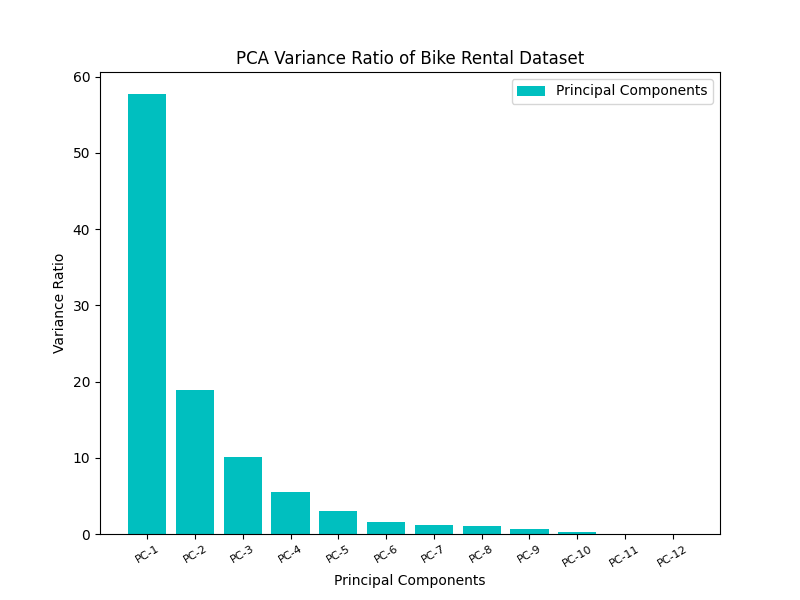
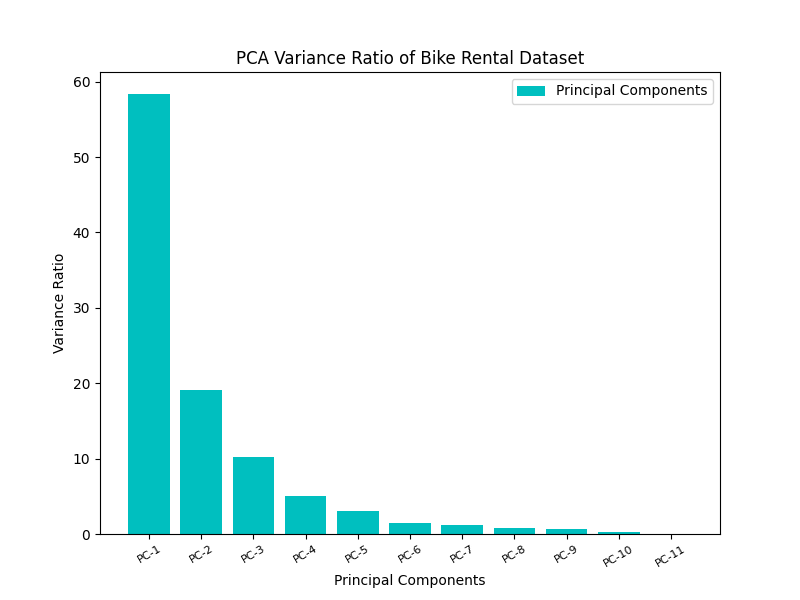
Increased accuracy and fixed PCA
- I added all the other columns (except for count) back into the data frame
- PCA works but it's weird so I'm not going to use it
- Lower half of correlation matrix is broken for some reason

diff --git a/main.py b/main.py
@@ -111,15 +111,13 @@ df['datetime'] = pd.to_datetime(df['datetime'])
 df['hour'] = df['datetime'].dt.hour
 df.drop('datetime', axis=1, inplace=True)
 
+# Also try using casual or registered columns instead of count
+
 # These are the possible targets because they are labeled
 target = np.array((df['season'], df['holiday'], df['workingday'], df['weather']))
 target = np.swapaxes(target, 0, 1)
 target = pd.DataFrame(target, columns=['season', 'holiday', 'workingday', 'weather'])
 df.drop(['season', 'holiday', 'workingday', 'weather'], axis=1, inplace=True)
-
-# Assigning labels for Season and Weather
-#target['season'] = target['season'].map({1: 'spring', 2: 'summer', 3: 'fall', 4: 'winter'})
-#target['weather'] = target['weather'].map({1: 'clear', 2: 'mist', 4: 'light rain', 4: 'heavy rain'})
 
 print(df.head())
 
@@ -138,25 +136,26 @@ palette = sns.color_palette('bright', n_colors=num_colors)
 # ******************************
 
 # Visualize features as a heatmap
-cor_eff=df.corr()
-plt.figure(figsize=(6,6))
-sns.heatmap(cor_eff,linecolor="white",linewidths=1,annot=True)
+cor_eff = df.corr()
+plt.figure(figsize=(9, 9))
+sns.heatmap(cor_eff, linecolor="white", linewidths=1, annot=True)
 plt.savefig("full_corr_matrix")
+plt.show()
 
 # Plot the lower half of the correlation matrix
-fig, ax = plt.subplots(figsize=(6,6))
+fig, ax = plt.subplots(figsize=(9, 9))
+
+# Lower correlation matrix not showing up
 # Compute the correlation matrix
-mask=np.zeros_like(cor_eff)
+mask = np.zeros_like(cor_eff)
 plt.savefig("lower_corr_matrix")
+plt.show()
 
 # mask = 0: display the correlation matrix
 # mask = 1: display the unique lower triangular values
 #mask[np.triu_indices_from(mask)] = 0
-mask[np.triu_indices_from(mask)] = 1
-sns.heatmap(cor_eff,linecolor="white",linewidths=1,mask=mask,ax=ax,annot=True)
-
-# Following a website for this part:
-# https://www.analyticsvidhya.com/blog/2021/06/data-cleaning-using-pandas/
+#mask[np.triu_indices_from(mask)] = 1
+#sns.heatmap(cor_eff, linecolor="white", linewidths=1, mask=mask, ax=ax, annot=True)
 
 # Print total of invalid data per column
 print("\nInvalid Data:")
@@ -170,11 +169,22 @@ print("Sum:", df.duplicated().sum())  # Also zero
 # Let's look at the distribution of the data
 print(df.describe())
 
+# Histogram for distribution of count column
+plt.clf()
+df['count'].plot.hist(bins=10, legend=None)
+plt.title("Distribution of Bike Rental Counts per Hour")
+plt.xlabel("Bikes Rented per Hour")
+plt.savefig("count_histogram")
+plt.show()
+
+
+target['count'] = pd.cut(x=df['count'], bins=[0, 100, 200, 300, 400, 500, 600, 700, 800, 900, 1000], labels=[0, 1, 2, 3, 4, 5, 6, 7, 8, 9])
+print(target['count'].value_counts())
+
 # Normalization
 norm = MinMaxScaler()
 df_final = pd.DataFrame(norm.fit_transform(df))
 df_final.columns = ['temp', 'atemp', 'humidity', 'windspeed', 'casual', 'registered', 'count', 'hour']
-#df_final = pd.concat(objs=(df_final, target), axis=1)
 
 # This is kinda useless now
 '''
@@ -184,8 +194,8 @@ sns.boxplot(data=df_final, x='holiday', y='count', ax=axes[0, 1])
 sns.boxplot(data=df_final, x='season', y='count', ax=axes[1, 0])
 sns.boxplot(data=df_final, x='weather', y='count', ax=axes[1, 1])
 plt.show()
+plt.savefig('normalization.png')
 '''
-# plt.savefig('normalization.png')
 
 # ******************************
 # FEATURE SELECTION
@@ -198,11 +208,17 @@ iqr = q3-q1
 outliers = df_final.index[((df_final['count'] < q1-(1.5 * iqr)) | (df_final['count'] > q3+(1.5 * iqr)))].tolist()
 target = target.drop(index=outliers, axis=0)
 df_final = df_final.drop(index=outliers, axis=0)
+df_final = pd.concat(objs=[df_final, target['season'], target['holiday'], target['workingday'], target['weather']], axis=1)
 
+# Might also need to drop registered and casual
+#df_final.drop(['count', 'casual', 'registered'], axis=1, inplace=True)
+df_final.drop(['count'], axis=1, inplace=True)
+
+# PCA now works but it's weird
 '''
 # Assigning X and Y for PCA
 x_pca = df_final
-y_pca = target['season']
+y_pca = np.array(target['count'])
 
 # PCA
 pca = PCA()
@@ -211,56 +227,52 @@ ev = pca.explained_variance_ratio_
 
 # Explained Variance Plot - PCA
 plt.figure(figsize=(8, 6))
-plt.bar([1, 2, 3, 4, 5, 6, 7, 8, 9, 10, 11, 12], list(ev * 100), label='Principal Components', color='c')
+plt.bar([1, 2, 3, 4, 5, 6, 7, 8, 9, 10, 11], list(ev * 100), label='Principal Components', color='c')
 plt.legend()
 plt.xlabel('Principal Components')
 pc = []
-for i in range(12):
+for i in range(11):
     pc.append('PC-' + str(i + 1))
-plt.xticks([1, 2, 3, 4, 5, 6, 7, 8, 9, 10, 11, 12], pc, fontsize=8, rotation=30)
+plt.xticks([1, 2, 3, 4, 5, 6, 7, 8, 9, 10, 11], pc, fontsize=8, rotation=30)
 plt.ylabel('Variance Ratio')
 plt.title('PCA Variance Ratio of Bike Rental Dataset')
 plt.savefig('PCA_class_variance')
 # plt.show()
 
 # PCA Dimensionality Reduction
-pca = PCA()
+pca = PCA(n_components=2)
 pc = pca.fit_transform(x_pca)
 
 x1 = x_pca.transpose()
-X_pca = np.matmul(pc, x1)
+X_pca = np.matmul(x1, pc)
 
 
 # Reformat reduced data
 X_pca_df = pd.DataFrame(data=pc)
-target_df = pd.DataFrame(data=target['season'])
-X_pca_df.columns = ['PC-1', 'PC-2', 'PC-3', 'PC-4', 'PC-5', 'PC-6', 'PC-7', 'PC-8', 'PC-9', 'PC-10', 'PC-11', 'PC-12']
+#X_pca_df.columns = ['PC-1', 'PC-2', 'PC-3', 'PC-4', 'PC-5', 'PC-6', 'PC-7', 'PC-8', 'PC-9', 'PC-10', 'PC-11']
 
 # 2D PCA Reduction Plot
 fig = plt.figure(figsize=(10, 10))
 ax = fig.add_subplot(1, 1, 1)
 ax.set_xlabel('PC-1', fontsize=15)
 ax.set_ylabel('PC-2', fontsize=15)
-ax.set_title('PCA on Bike Rental Dataset', fontsize=20)
-class_num = [1, 2, 3, 4]
-colors = ['turquoise', 'gold', 'darkorange', 'mediumpurple']
-for target, color in zip(class_num, colors):
-    indicesToKeep = y_pca == target #This doesn't make sense anymore?
-    ax.scatter(X_pca_df.loc[indicesToKeep, 'PC-1'], #UGGGHHH
-               X_pca_df.loc[indicesToKeep, 'PC-2'],
+ax.set_title('PCA on Bike Rental Dataset - Count', fontsize=20)
+class_num = [0, 1, 2, 3, 4, 5, 6, 7, 8, 9]
+colors = ['r', 'b', 'g', 'y', 'orange', 'c', 'k', 'pink', 'brown', 'gray']
+for t, color in zip(class_num, colors):
+    indicesToKeep = y_pca == t
+    indicesToKeep = np.where(indicesToKeep)[0]
+    ax.scatter(X_pca_df.iloc[indicesToKeep, 0],
+               X_pca_df.iloc[indicesToKeep, 1],
                c=color, s=9)
-ax.legend(class_num)
+ax.legend(['0 to 100', '100 to 200', '200 to 300', '300 to 400', '400 to 500', '500 to 600', '600 to 700', '700 to 800','800 to 900', '900 to 1000'])
 ax.grid()
 plt.show()
 '''
 
-# Count over a day for working days vs not
-#sns.lineplot(data=df_final, x='hour', y='count', hue='workingday')
-#plt.show()
-
 # Assigning X and Y for LDA
 x_lda = df_final
-y_lda = target['season']
+y_lda = target['count']
 
 # LDA
 lda = LinearDiscriminantAnalysis()
@@ -269,17 +281,17 @@ ev = lda.explained_variance_ratio_
 
 # Explained Variance Plot - LDA
 plt.figure(figsize=(8, 6))
-plt.bar([1, 2, 3], list(ev * 100), label='Linear Discriminants', color='c')
+plt.bar([1, 2, 3, 4, 5, 6], list(ev * 100), label='Linear Discriminants', color='c')
 plt.legend()
 plt.xlabel('Linear Discriminants')
 ld = []
-for i in range(3):
+for i in range(6):
     ld.append('LD-' + str(i + 1))
-plt.xticks([1, 2, 3], ld, fontsize=8, rotation=30)
+plt.xticks([1, 2, 3, 4, 5, 6], ld, fontsize=8, rotation=30)
 plt.ylabel('Variance Ratio')
-plt.title('LDA Variance Ratio of Bike Rental Dataset')
-plt.savefig('LDA_class_variance')
-# plt.show()
+plt.title('LDA Variance Ratio of Bike Rental Dataset - Count')
+plt.savefig('LDA_class_variance_count')
+#plt.show()
 
 # LDA Dimensionality Reduction
 lda = LinearDiscriminantAnalysis(n_components=2)
@@ -288,18 +300,17 @@ x_lda = lda.fit_transform(X=x_lda, y=y_lda)
 # Plot LDA scatterplot
 fig = plt.figure(figsize=(10, 10))
 ax = fig.add_subplot(1, 1, 1)
-ax.set_title('LDA on Bike Rental Dataset - Season', fontsize=20)
-class_num = [1, 2, 3, 4]
-colors = ['turquoise', 'gold', 'darkorange', 'mediumpurple']
-#markerm = ['o', 'o', 'o', 'o', 'o', 'o', 'o', '+', '+', '+', '+', '+', '+', '+', '*', '*']
+ax.set_title('LDA on Bike Rental Dataset - Count', fontsize=20)
+class_num = [0, 1, 2, 3, 4, 5, 6, 7, 8, 9]
+colors = ['r', 'b', 'g', 'y', 'orange', 'c', 'k', 'pink', 'brown', 'gray']
 for t, color in zip(class_num, colors):
     indicesToKeep = y_lda == t
     ax.scatter(x_lda[indicesToKeep, 0],
                x_lda[indicesToKeep, 1],
                c=color, s=9)
-ax.legend(['Spring', 'Summer', 'Fall', 'Winter'])
+ax.legend(['0 to 100', '100 to 200', '200 to 300', '300 to 400', '400 to 500', '500 to 600', '600 to 700', '700 to 800','800 to 900', '900 to 1000'])
 ax.grid()
-plt.savefig('LDA_scatterplot_season')
+plt.savefig('LDA_scatterplot_count')
 #plt.show()
 
 # Supervised Classification w/o reduction
@@ -313,24 +324,30 @@ classifier_labels = {"SVM - RBF": (SVC(kernel="rbf", random_state=1), "green"),
 
 
 # **WARNING**, this section of the code can take up to 10 min to run
-fig1, normal_scores = plot_learning_curve(est_arr=classifier_labels, X=df_final, y=target['season'], train_sizes=np.linspace(start=0.1, stop=0.5, num=5), cv=5, n_jobs=1,
+fig1, normal_scores = plot_learning_curve(est_arr=classifier_labels, X=df_final, y=target['count'], train_sizes=np.linspace(start=0.1, stop=0.5, num=5), cv=5, n_jobs=1,
                    title="Supervised Classification of Bike Rental Dataset Without Dimensionality Reduction")
-# plt.show()
-plt.savefig('classification_accuracy')
-
+plt.show()
+plt.savefig('classification_accuracy_count')
 
 # LDA
-fig3, lda_scores = plot_learning_curve(est_arr=classifier_labels, X=x_lda, y=target['season'], train_sizes=np.linspace(start=0.1, stop=0.5, num=5), cv=5, n_jobs=1,
+fig3, lda_scores = plot_learning_curve(est_arr=classifier_labels, X=x_lda, y=target['count'], train_sizes=np.linspace(start=0.1, stop=0.5, num=5), cv=5, n_jobs=1,
                    title="Supervised Classification of Bike Rental Dataset With LDA Dimensionality Reduction")
-#plt.show()
-plt.savefig('classification_accuracy_LDA')
+plt.show()
+plt.savefig('classification_accuracy_LDA_count')
 
 # Using classification data, test best classifier (Random Forest)
-x_train, x_test, y_train, y_test = train_test_split(x_lda, y_lda, train_size=0.2, random_state=1)
+x_train, x_test, y_train, y_test = train_test_split(x_lda, y_lda, train_size=0.4, random_state=1, shuffle=True)
+
+# According to our classification accuracy charts, random forest performed the best
 rf = RandomForestClassifier(random_state=1)
 rf.fit(x_train, y_train)
+# rbf = 98% at 0.5 training
+#rbf = SVC(kernel="rbf", random_state=1)
+#rbf.fit(x_train, y_train)
+
 # Get predicted values to calculate RMSE and MSE
 y_pred = rf.predict(x_test)
+#y_pred = rbf.predict(x_test)
 
 print("\nTraining Results")
 print("-----------------------------------------------------")
@@ -338,13 +355,18 @@ print("Coefficient of Determination:", round(r2_score(y_test, y_pred), 4))
 print("RMSE:", round(np.sqrt(mean_squared_error(y_test, y_pred)), 4))
 print("MSE:", round(mean_squared_error(y_test, y_pred), 4))
 
-# Predict new data (I want to be able to predict count instead of season, hmm...)
-pred = rf.predict(x_test)
-labels = {1: 'Spring', 2: 'Summer', 3: 'Fall', 4: 'Winter'}
-print("\nTraining Predicted Values")
-print("-----------------------------------------------------")
-print("Predicted Season:", labels.get(pred[0]))
-print("Actual Season:", labels.get(y_test.values[0]))
+# Check predictions
+correct_count = 0
+for i in range(len(y_test.values)):
+    if y_test.values[i] == y_pred[i]:
+        correct_count += 1
+
+# Calculate accuracy of predictions
+accuracy = (correct_count/len(y_test.values)) * 100
+
+print("Actual Prediction Accuracy: ", round(accuracy, 2), "%")
+
+
 
 
 
